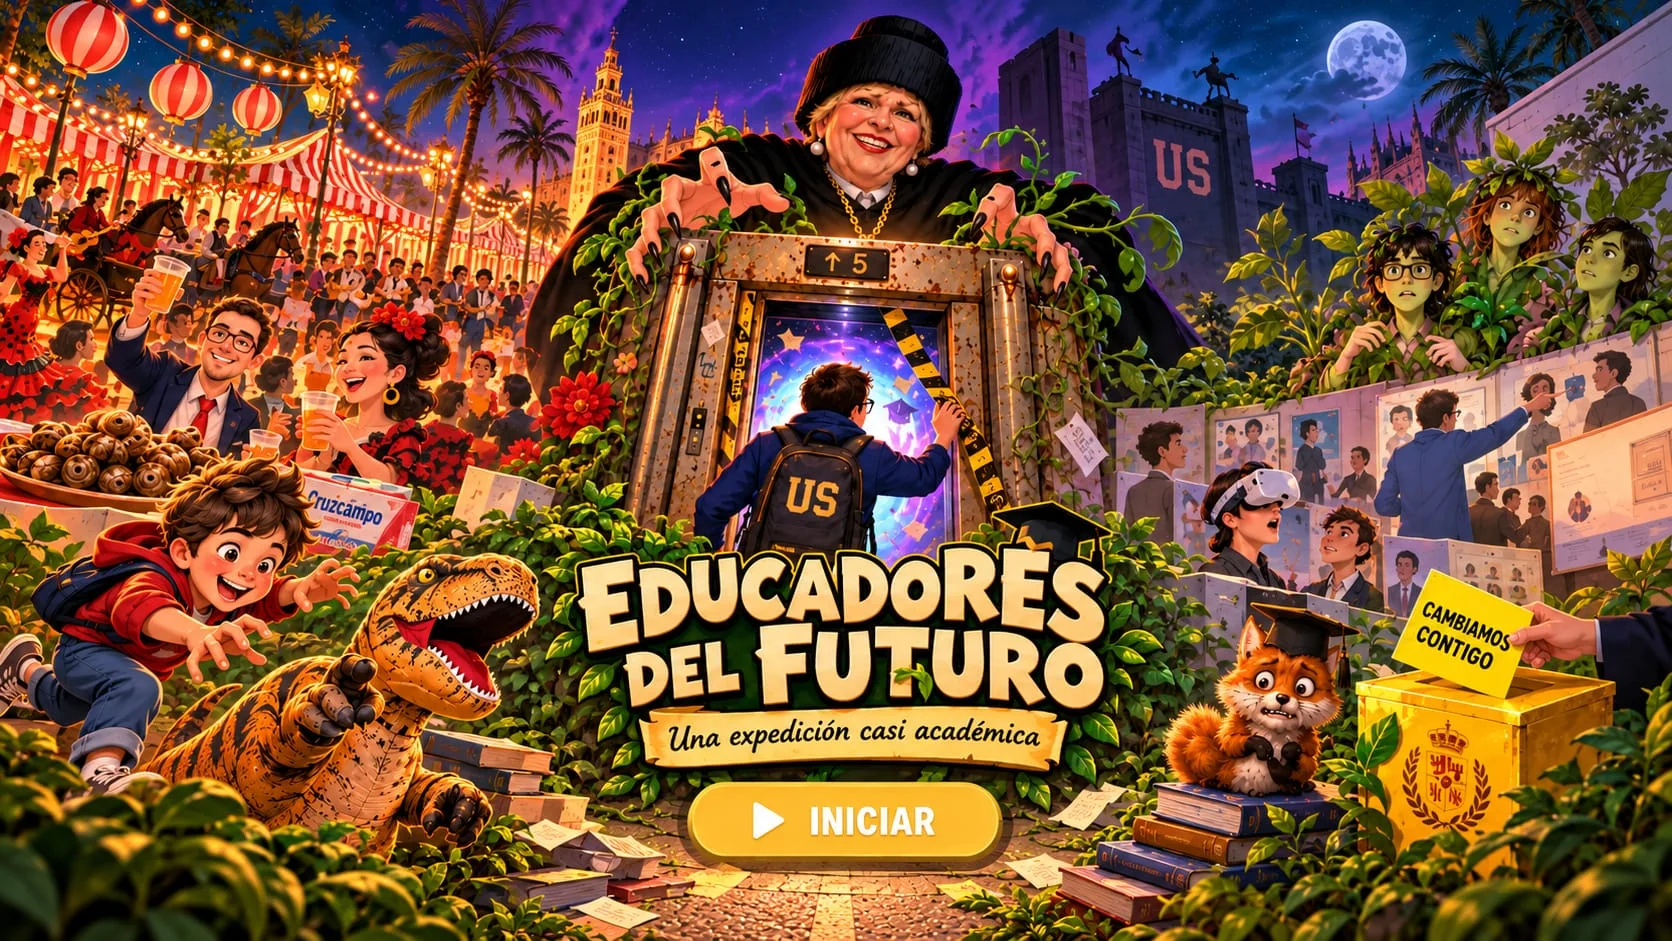
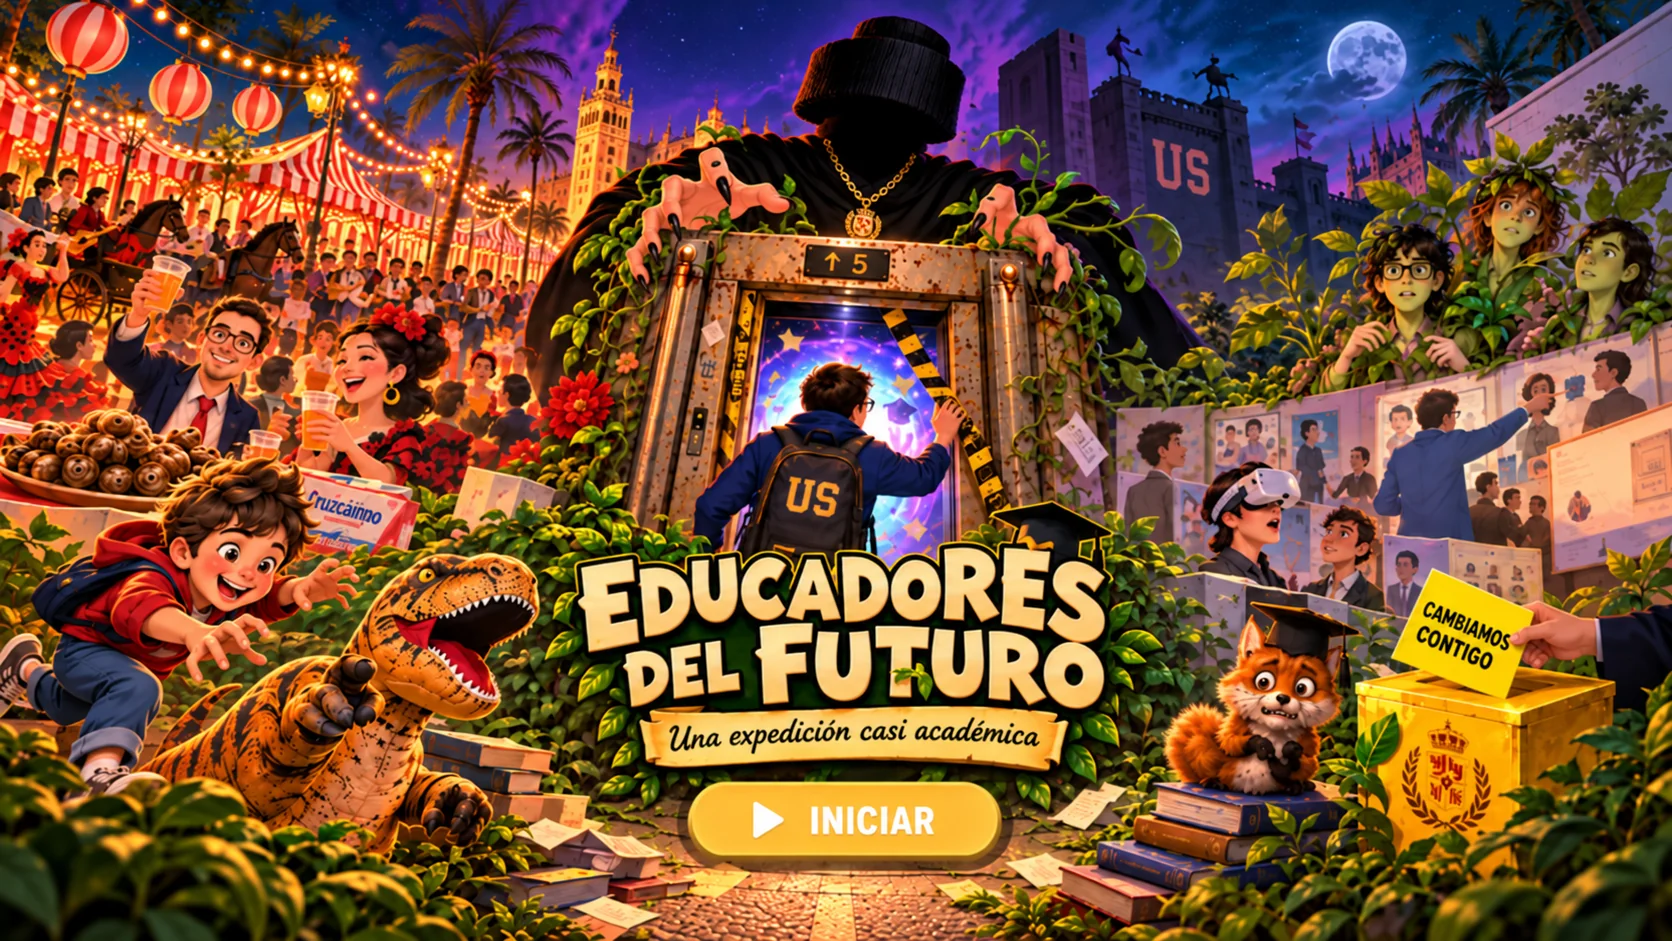
Add files via upload

diff --git a/game.js b/game.js
@@ -53,7 +53,7 @@ window.setupGame=function(k){
  function showToast(text,good=true){clearTimeout(toastTimer);toast.textContent=text;toast.classList.toggle('wrong',!good);toast.hidden=false;toastTimer=setTimeout(()=>toast.hidden=true,2400);}
  function hideModal(){modal.hidden=true;modal.setAttribute('aria-hidden','true');}
  function showModal(html){modal.hidden=false;modal.removeAttribute('aria-hidden');panel.innerHTML=html;panel.setAttribute('tabindex','-1');panel.focus({preventScroll:true});panel.scrollTop=0;modal.scrollTop=0;}
- function showCover(){showModal(`<button type="button" class="cover-start" aria-label="Iniciar: ver la historia y las instrucciones"><picture><source media="(max-aspect-ratio: 1/1)" srcset="portada-movil.webp"><img src="portada-escritorio.webp" alt="Educadores del futuro. Una expedición casi académica. Iniciar" fetchpriority="high" decoding="async"></picture></button>`);modal.classList.add('cover-screen');$('.cover-start').onclick=()=>{modal.classList.remove('cover-screen');welcome();};}
+ function showCover(){showModal(`<button type="button" class="cover-start" aria-label="Iniciar: ver la historia y las instrucciones"><picture><source media="(max-aspect-ratio: 1/1)" srcset="portada-movil.webp?v=2"><img src="portada-escritorio.webp?v=2" alt="Educadores del futuro. Una expedición casi académica. Iniciar" fetchpriority="high" decoding="async"></picture></button>`);modal.classList.add('cover-screen');$('.cover-start').onclick=()=>{modal.classList.remove('cover-screen');welcome();};}
  function welcome(help=false){if(!gameUnlocked){accessPassword();return;}helpMode=help;showModal(`<h1>Educadores<br>del futuro</h1><p class="subtitle">Una expedición casi académica</p><p>Cuenta la leyenda que un estudiante necesitaba subir a la quinta planta y decidió entrar en un ascensor averiado porque en los demás había demasiada gente esperando.</p><p>Lo que parecía una decisión cuestionable, pero perfectamente comprensible en el contexto de la US, terminó conduciéndolo a un descubrimiento aterrador.</p><p>La Rectora Maligna estaba utilizando los ascensores como portales hacia universos paralelos, donde realizaba experimentos secretos con estudiantes para convertirlos en plantas.</p><p>Tu misión será recorrer esos mundos, reunir las pruebas de sus experimentos y liberar a los estudiantes antes de que sea demasiado tarde.</p><p>¿Conseguirás salvar la universidad o te arrepentirás de no haber votado a Guti a tiempo?</p><h2 class="instructions-title">Instrucciones</h2><div class="steps"><p><b>01</b><strong>Explora:</strong> arrastra la escena para mirar alrededor. Pellizca o utiliza la rueda del ratón para acercarte.</p><p><b>02</b><strong>Investiga:</strong> lee cada pista y pulsa la imagen correcta. Si fallas, puedes volver a intentarlo. Aquí no se pierden vidas, solo dignidad.</p><p><b>03</b><strong>Sobrevive:</strong> pide ayuda cuando la necesites. Al final te espera un cuestionario y un informe de dudosa solemnidad.</p></div><p class="dim">El botón ♫ silencia música y efectos. Puedes cerrar y volver a abrir las pistas.</p><button class="primary wide" id="start-game">${help?'Volver a la aventura':'Comenzar la aventura'}</button>`);$('#start-game').onclick=()=>{audio();music();hideModal();if(!started){started=true;startedAt=Date.now();hud.hidden=false;startIntro();}else drawQuest();for(const item of Object.values(k._palaciosShared||{}))if(item.start)item.start();};}
  function testFinalMission(){audio();music();started=true;startedAt=Date.now();finished=false;freeExploration=false;busy=false;introDone=true;index=quests.length-1;hintLevel=0;hiddenQuest=false;doorOpened=true;hologramSoundAllowed=false;updateHologramAudio(null);hideModal();hud.hidden=false;$('.intro-note').hidden=true;for(const id of ['#ending-choice','#exploration-nav']){const item=$(id);if(item)item.hidden=true;}k.call('set(control.usercontrol,all);loadscene(scene_2,null,MERGE,BLEND(0.3));lookat(-135.08606076885258,11.334507226600849,50);');drawQuest();}
  function current(){return quests[index];}

diff --git a/index.html b/index.html
@@ -1,5 +1,5 @@
 <!doctype html>
-<html lang="es"><head><meta charset="utf-8"><meta name="viewport" content="width=device-width, initial-scale=1, viewport-fit=cover"><meta name="theme-color" content="#081925"><title>Educadores del futuro · La realidad casi paralela</title><link rel="stylesheet" href="game.css?v=avisos-ajustados"><style>html,body{height:100%;margin:0;background:#081925;overflow:hidden}#pano{width:100%;height:100%;touch-action:none}.access-locked #pano{visibility:hidden}.access-locked .overlay{background:#081925}</style></head><body class="access-locked"><div id="pano"><noscript>Activa JavaScript para entrar en la realidad casi paralela.</noscript></div><script src="tour.js"></script><script src="game.js?v=avisos-ajustados"></script><script>embedpano({xml:'tour.xml?v=avisos-ajustados',target:'pano',html5:'only',onready:window.setupGame});</script></body></html>
+<html lang="es"><head><meta charset="utf-8"><meta name="viewport" content="width=device-width, initial-scale=1, viewport-fit=cover"><meta name="theme-color" content="#081925"><title>Educadores del futuro · La realidad casi paralela</title><link rel="stylesheet" href="game.css?v=portadas-nuevas"><style>html,body{height:100%;margin:0;background:#081925;overflow:hidden}#pano{width:100%;height:100%;touch-action:none}.access-locked #pano{visibility:hidden}.access-locked .overlay{background:#081925}</style></head><body class="access-locked"><div id="pano"><noscript>Activa JavaScript para entrar en la realidad casi paralela.</noscript></div><script src="tour.js"></script><script src="game.js?v=portadas-nuevas"></script><script>embedpano({xml:'tour.xml?v=portadas-nuevas',target:'pano',html5:'only',onready:window.setupGame});</script></body></html>
 
 
 
